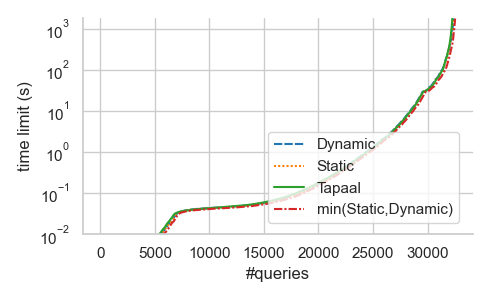
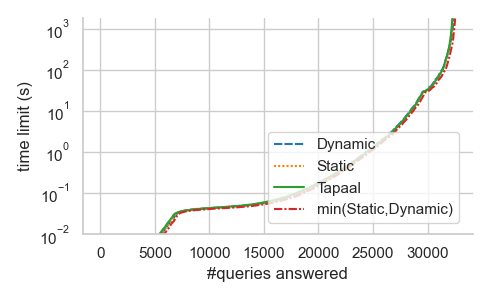
Add uniformity table output

Changed region(s): [[0.398, 0.87, 0.7347, 0.93]]

diff --git a/scripts/graphs_and_tables.py b/scripts/graphs_and_tables.py
@@ -135,7 +135,7 @@ def ratio_box_plot(df1, df2, parameter, none_value, limit, file_prefix=''):
 def cactus(df, parameter, unit, query_prefix='', file_prefix=''):
     df = df[df['satisfied'] != 'unknown']
 
-    xlabel = f'#{query_prefix}queries'
+    xlabel = f'#{query_prefix}queries answered'
     df = df.groupby('experiment').apply(lambda x: x.sort_values(parameter).reset_index(drop=True))
     df = df.reset_index(level=1, names=[None, xlabel]).reset_index(drop=True)
     df[xlabel] += 1
@@ -157,6 +157,47 @@ def cactus(df, parameter, unit, query_prefix='', file_prefix=''):
     print('▫ Created', file)
 
 
+def uniformity(dfs, group, group_name, filter=None):
+    PERCENTAGE = 0.03  # 1/32th of queries in group
+    DECIMALS = 1
+    FACTORS = [2.0, 10.0, 100.0]
+    FACTORS = list(map(lambda x: 1.0 / x, reversed(FACTORS))) + FACTORS
+
+    N = 0
+    dfs = dfs.copy()
+    for i, (e, df) in enumerate(dfs):
+        df = df[filter] if filter is not None else df
+        N = df[group].nunique()
+        df = df.replace({'time': -1}, float('inf'))
+        df.time = np.true_divide(np.ceil(df.time * (10 ** DECIMALS)), 10 ** DECIMALS)
+        df = df.set_index(CASE_IDS_COLS + ['family'])
+        dfs[i] = (e, df)
+
+    assert dfs[0][0] == BASE_NAME, f'The first dataframe is not {BASE_NAME}'
+    df_base = dfs[0][1]
+    dfs = dfs[1:]
+
+    queries_per_group = df_base.groupby(group).time.count()
+
+    res = pd.DataFrame()
+    for (e, df) in dfs:
+        values = dict()
+        for factor in FACTORS:
+            if factor <= 1.0:
+                qs_slower_per_model = ((df.time * factor) > df_base.time).groupby(group).sum()
+                values[factor] = ((qs_slower_per_model / queries_per_group) >= PERCENTAGE).sum()
+            if factor >= 1.0:
+                qs_faster_per_model = ((df.time * factor) < df_base.time).groupby(group).sum()
+                values[factor] = ((qs_faster_per_model / queries_per_group) >= PERCENTAGE).sum()
+        res[e] = values
+
+    prefix = '' if not group_name else group_name.lower().replace(' ', '_') + '_'
+    file = OUT_DIR / f'{prefix}uniformity_N={N}.csv'
+    res.to_csv(file, sep=';', index=False)
+    print('▫ Created', file)
+
+
+
 if __name__ == '__main__':
     dfs = [(e, pd.read_csv(csv, sep=';').assign(experiment=e)) for (e, csv) in INPUT_CSVS]
     for name, df in dfs:
@@ -176,8 +217,22 @@ if __name__ == '__main__':
     time_diff = reduce(operator.or_, [is_diff(df.replace({'time': -1}, float("inf"))['time'] / dfs[0][1].replace({'time': -1}, float("inf"))['time'], TIME_DIFF_THRESHOLD) for (_, df) in dfs], falses)
     memory_diff = reduce(operator.or_, [is_diff(df.replace({'memory': float("nan")}, float("inf"))['memory'] / dfs[0][1].replace({'memory': float("nan")}, float("inf"))['memory'], MEMORY_DIFF_THRESHOLD) for (_, df) in dfs], falses)
 
+    challenging = (time_diff & memory_diff) & (time_hard_for_some | memory_hard_for_some)
+
+    chldf = pd.DataFrame(zip(challenging, dfs[0][1].model, dfs[0][1].model.str.split('-').str[0]), columns=['challenging', 'model', 'family'])
+    challenging_model = pd.merge(dfs[0][1], chldf.groupby('model').challenging.any(), on='model').challenging
+    ms_per_fam = chldf.groupby(['model', 'family']).first().groupby('family').count().challenging
+    chl_per_fam = chldf.groupby(['model', 'family']).challenging.any().groupby('family').sum()
+    # A family is challenging if the majority (>=0.5) of instances is challenging
+    challenging_family = pd.merge(chldf, (chl_per_fam / ms_per_fam) >= 0.5, on='family').challenging_y
+
     for i, (e, df) in enumerate(dfs):
-        dfs[i] = (e, df.assign(challenging=(time_diff & memory_diff) & (time_hard_for_some | memory_hard_for_some)))
+        dfs[i] = (e, df.assign(
+            challenging=challenging,
+            challenging_model=challenging_model,
+            family=df.model.str.split('-').str[0],
+            challenging_family=challenging_family,
+        ))
 
     def min_df(e, df1, df2, parameter, none_value):
         df1_best_mask = df1.replace({parameter: none_value}, 1_000_000_000)[parameter] <= df2.replace({parameter: none_value}, 1_000_000_000)[parameter]
@@ -199,10 +254,13 @@ if __name__ == '__main__':
     cactus(df, 'memory', 'MB')
     cactus(df_w_min[df_w_min.challenging], 'time', 's', query_prefix='challenging ', file_prefix='challenging_')
     cactus(df[df.challenging], 'memory', 'MB', query_prefix='challenging ', file_prefix='challenging_')
+    uniformity(dfs, 'model', 'all models', finished_by_some)
+    uniformity(dfs, 'family', 'all families', finished_by_some)
+    uniformity(dfs, 'model', 'challenging models', finished_by_some & challenging_model)
+    uniformity(dfs, 'family', 'challenging families', finished_by_some & challenging_family)
     for i in range(len(dfs)):
         for j in range(i + 1, len(dfs)):
             (e1, df1), (e2, df2) = dfs[i], dfs[j]
             ratio_box_plot(df1[df1.challenging], df2[df2.challenging], 'time', -1, TIME_LIMIT, file_prefix='challenging_')
             ratio_box_plot(df1[df1.challenging], df2[df2.challenging], 'memory', float("nan"), MEMORY_LIMIT, file_prefix='challenging_')
-
     print('Done!')
